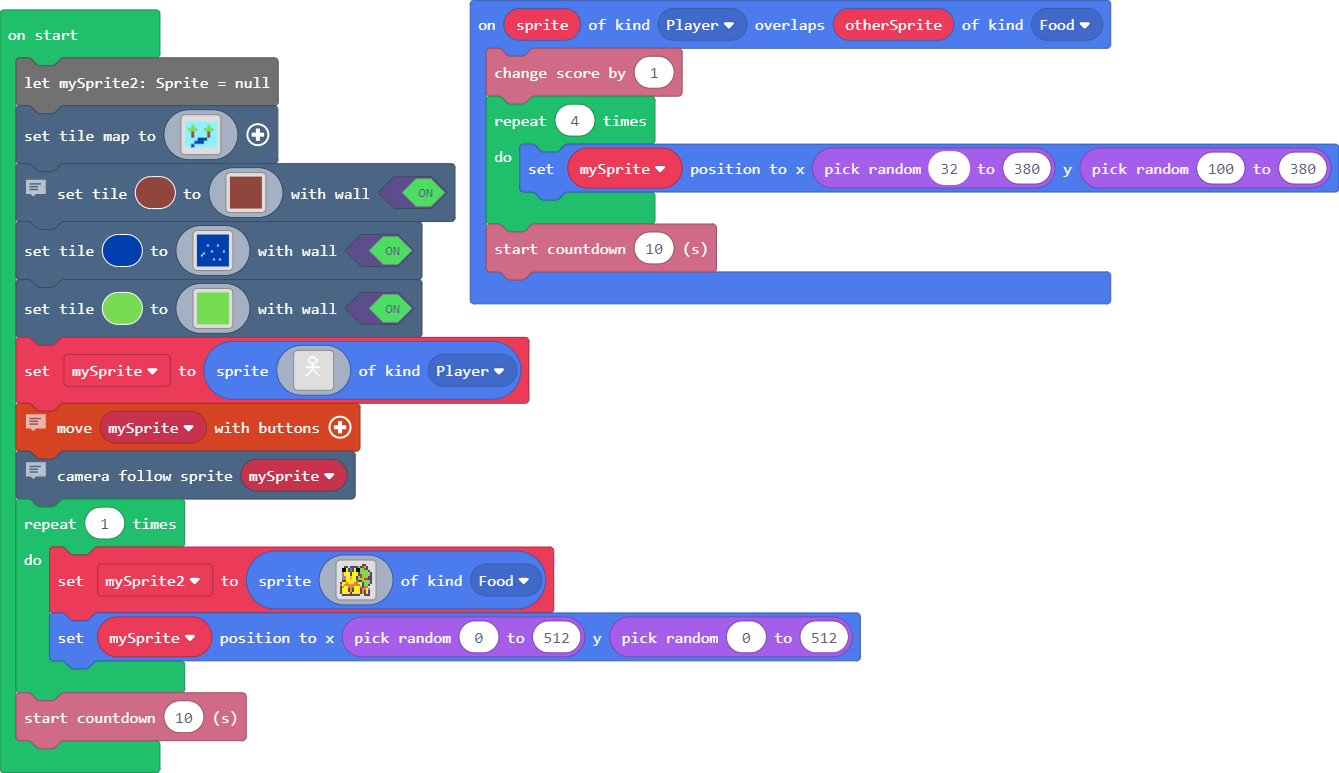
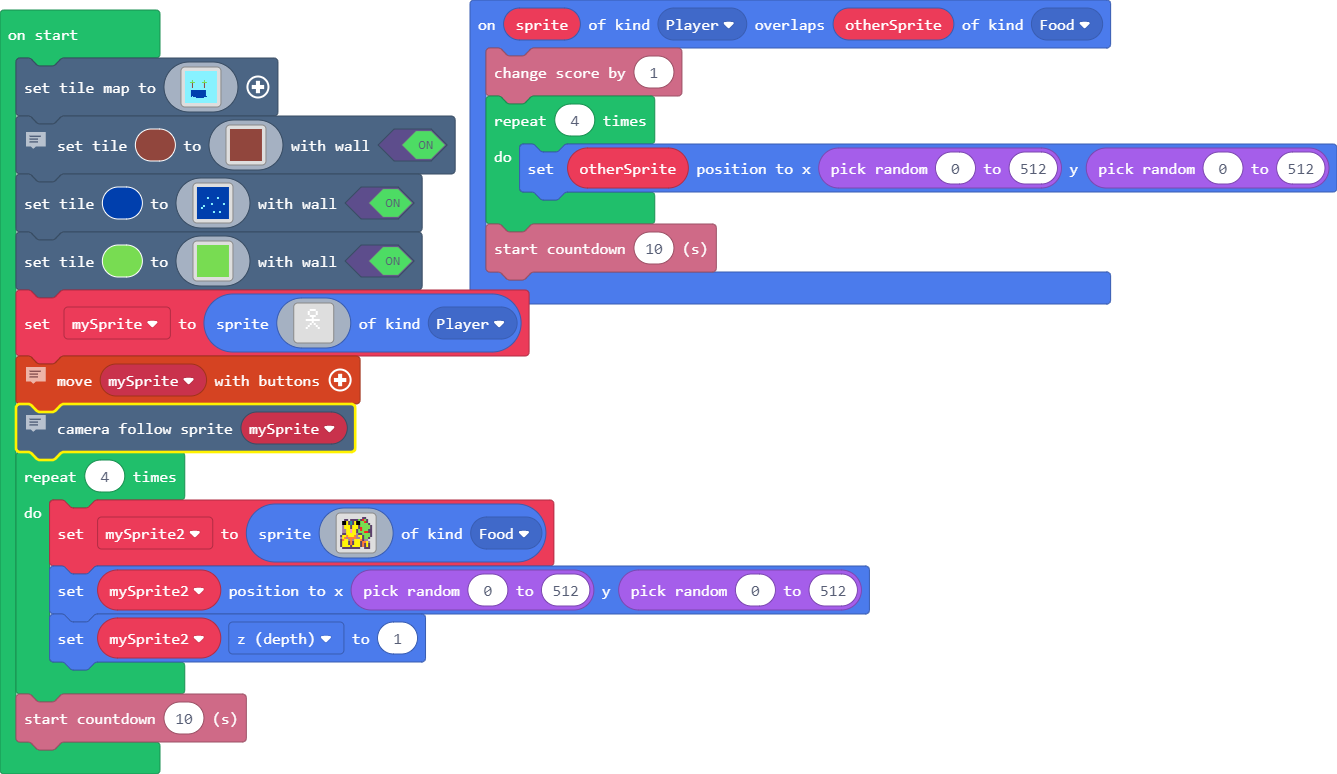
Commit maze game

diff --git a/main.ts b/main.ts
@@ -1,21 +1,44 @@
 sprites.onOverlap(SpriteKind.Player, SpriteKind.Food, function (sprite, otherSprite) {
     info.changeScoreBy(1)
     for (let index = 0; index < 4; index++) {
-        mySprite.setPosition(Math.randomRange(32, 380), Math.randomRange(100, 380))
+        otherSprite.setPosition(Math.randomRange(0, 512), Math.randomRange(0, 512))
     }
     info.startCountdown(10)
 })
-let mySprite: Sprite = null
 let mySprite2: Sprite = null
 scene.setTileMap(img`
-9 9 9 9 9 9 9 9 9 9 
-9 9 7 9 9 9 9 7 9 9 
-9 7 7 7 9 9 7 7 7 9 
-9 9 e 9 9 9 9 e 9 9 
-9 9 e 9 9 9 9 e 9 9 
-9 9 9 9 8 8 8 9 9 9 
-9 9 9 8 8 8 9 9 9 9 
-9 9 8 9 9 9 9 9 9 9 
+9 9 9 9 9 9 9 9 9 9 9 9 9 9 9 9 9 9 9 9 9 9 9 9 9 9 9 9 9 9 9 9 
+9 9 9 9 9 9 9 9 9 9 9 9 9 9 9 9 9 9 9 9 9 9 9 9 9 9 9 9 9 9 9 9 
+9 9 9 9 9 9 9 9 9 9 9 9 9 9 9 9 9 9 9 9 9 9 9 9 9 9 9 9 9 9 9 9 
+9 9 9 9 9 9 9 9 9 9 9 9 9 9 9 9 9 9 9 9 9 9 9 9 9 9 9 9 9 9 9 9 
+9 9 9 9 9 9 9 9 9 9 9 9 9 9 9 9 9 9 9 9 9 9 9 9 9 9 9 9 9 9 9 9 
+9 9 9 9 9 9 9 9 9 9 9 9 9 9 9 9 9 9 9 9 9 9 9 9 9 9 9 9 9 9 9 9 
+9 9 9 9 9 9 9 9 9 9 9 9 9 9 9 9 9 9 9 9 9 9 9 9 9 9 9 9 9 9 9 9 
+9 9 9 9 9 9 9 9 9 9 9 9 9 9 9 9 9 9 9 9 9 9 9 9 9 9 9 9 9 9 9 9 
+9 9 9 9 9 9 9 9 9 9 9 9 9 9 9 9 9 9 9 9 9 9 9 9 9 9 9 9 9 9 9 9 
+9 9 9 9 9 9 9 7 9 9 9 9 9 9 9 9 9 9 9 7 9 9 9 9 9 9 9 9 9 9 9 9 
+9 9 9 9 9 9 9 7 9 9 9 9 9 9 9 9 9 9 9 7 9 9 9 9 9 9 9 9 9 9 9 9 
+9 9 9 9 9 7 7 7 7 7 9 9 9 9 9 9 9 7 7 7 7 7 9 9 9 9 9 9 9 9 9 9 
+9 9 9 9 9 9 9 e 9 9 9 9 9 9 9 9 9 9 9 e 9 9 9 9 9 9 9 9 9 9 9 9 
+9 9 9 9 9 9 9 e 9 9 9 9 9 9 9 9 9 9 9 e 9 9 9 9 9 9 9 9 9 9 9 9 
+9 9 9 9 9 9 9 e 9 9 9 9 9 9 9 9 9 9 9 e 9 9 9 9 9 9 9 9 9 9 9 9 
+9 9 9 9 9 9 9 e 9 9 9 9 9 9 9 9 9 9 9 e 9 9 9 9 9 9 9 9 9 9 9 9 
+9 9 9 9 9 9 9 e 9 9 9 9 9 9 9 9 9 9 9 e 9 9 9 9 9 9 9 9 9 9 9 9 
+9 9 9 9 9 9 9 9 9 9 9 9 9 9 9 9 9 9 9 9 9 9 9 9 9 9 9 9 9 9 9 9 
+9 9 9 9 9 9 9 9 9 9 9 9 9 9 9 9 9 9 9 9 9 9 9 9 9 9 9 9 9 9 9 9 
+9 9 9 9 9 9 8 8 8 8 8 8 8 8 8 8 8 8 8 8 8 9 9 9 9 9 9 9 9 9 9 9 
+9 9 9 9 9 9 8 8 8 8 8 8 8 8 8 8 8 8 8 8 8 9 9 9 9 9 9 9 9 9 9 9 
+9 9 9 9 9 9 8 8 8 8 8 8 8 8 8 8 8 8 8 8 8 9 9 9 9 9 9 9 9 9 9 9 
+9 9 9 9 9 9 8 8 8 8 8 8 8 8 8 8 8 8 8 8 8 9 9 9 9 9 9 9 9 9 9 9 
+9 9 9 9 9 9 8 8 8 8 8 8 8 8 8 8 8 8 8 8 8 9 9 9 9 9 9 9 9 9 9 9 
+9 9 9 9 9 9 8 8 8 8 8 8 8 8 8 8 8 8 8 8 8 9 9 9 9 9 9 9 9 9 9 9 
+9 9 9 9 9 9 8 9 8 8 8 8 8 8 8 8 8 8 8 8 8 8 9 9 9 9 9 9 9 9 9 9 
+9 9 9 9 9 9 9 9 9 9 9 8 8 8 8 8 8 8 8 9 9 9 9 9 9 9 9 9 9 9 9 9 
+9 9 9 9 9 9 9 9 9 9 9 9 9 9 9 9 9 9 9 9 9 9 9 9 9 9 9 9 9 9 9 9 
+9 9 9 9 9 9 9 9 9 9 9 9 9 9 9 9 9 9 9 9 9 9 9 9 9 9 9 9 9 9 9 9 
+9 9 9 9 9 9 9 9 9 9 9 9 9 9 9 9 9 9 9 9 9 9 9 9 9 9 9 9 9 9 9 9 
+9 9 9 9 9 9 9 9 9 9 9 9 9 9 9 9 9 9 9 9 9 9 9 9 9 9 9 9 9 9 9 9 
+9 9 9 9 9 9 9 9 9 9 9 9 9 9 9 9 9 9 9 9 9 9 9 9 9 9 9 9 9 9 9 9 
 `)
 // when turned on, the player cannot go through the
 // wall
@@ -73,7 +96,7 @@ scene.setTile(7, img`
 7 7 7 7 7 7 7 7 7 7 7 7 7 7 7 7 
 7 7 7 7 7 7 7 7 7 7 7 7 7 7 7 7 
 `, true)
-mySprite = sprites.create(img`
+let mySprite = sprites.create(img`
 . . . . . . . . . . . . . . . . 
 . . . . . . 1 1 1 . . . . . . . 
 . . . . . 1 . . . 1 . . . . . . 
@@ -95,7 +118,7 @@ mySprite = sprites.create(img`
 controller.moveSprite(mySprite)
 // camera follows sprite throughout game
 scene.cameraFollowSprite(mySprite)
-for (let index = 0; index < 1; index++) {
+for (let index = 0; index < 4; index++) {
     mySprite2 = sprites.create(img`
 . . . . . . . . . . . c c . . . 
 . . c c . c c c c 7 c 2 7 c . . 
@@ -114,6 +137,7 @@ c 5 5 5 c 4 c 5 5 5 c 4 c 5 c .
 c 5 5 5 5 c 5 5 5 5 c 4 c 5 c . 
 . c c c c c c c c c . . c c c . 
 `, SpriteKind.Food)
-    mySprite.setPosition(Math.randomRange(0, 512), Math.randomRange(0, 512))
+    mySprite2.setPosition(Math.randomRange(0, 512), Math.randomRange(0, 512))
+    mySprite2.z = 1
 }
 info.startCountdown(10)
